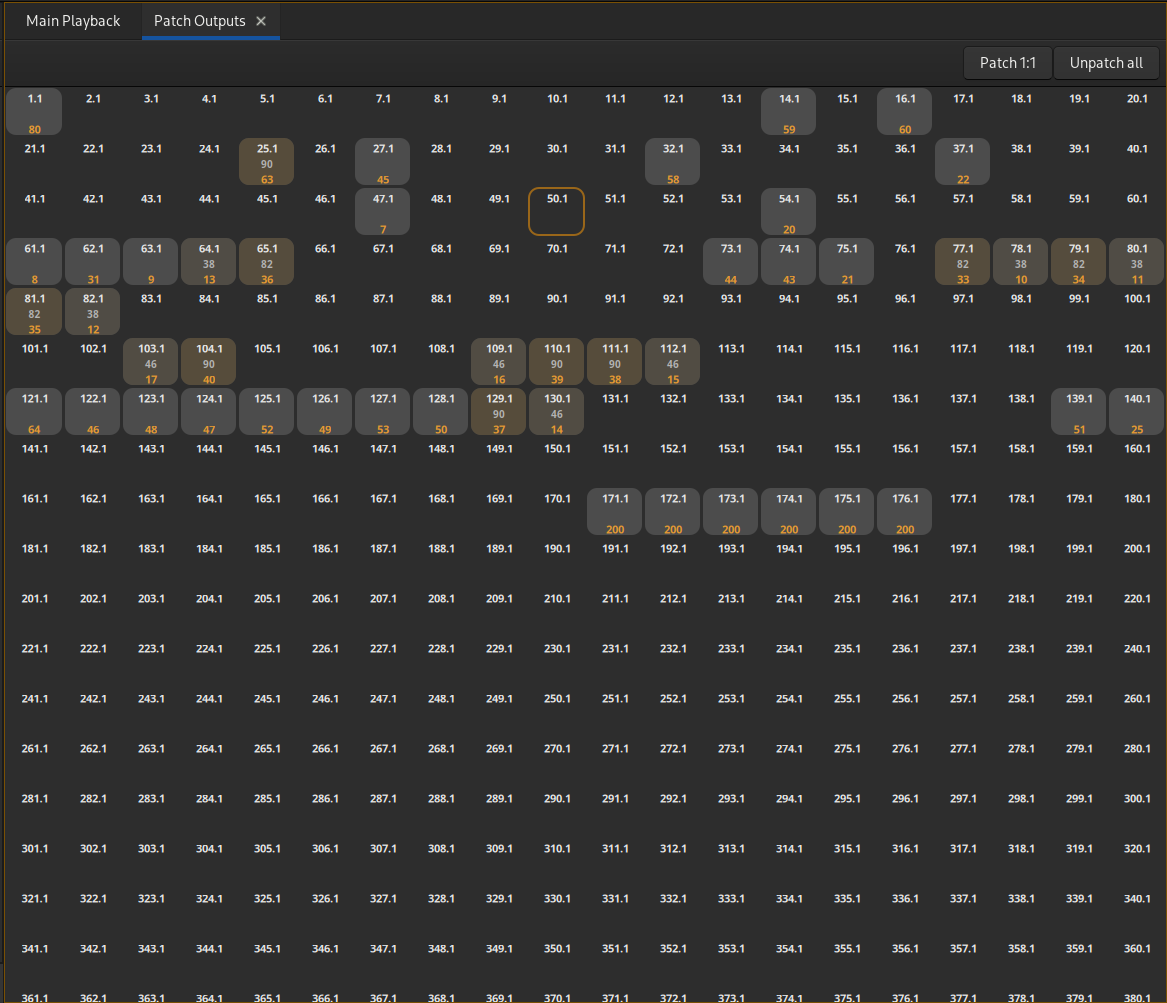
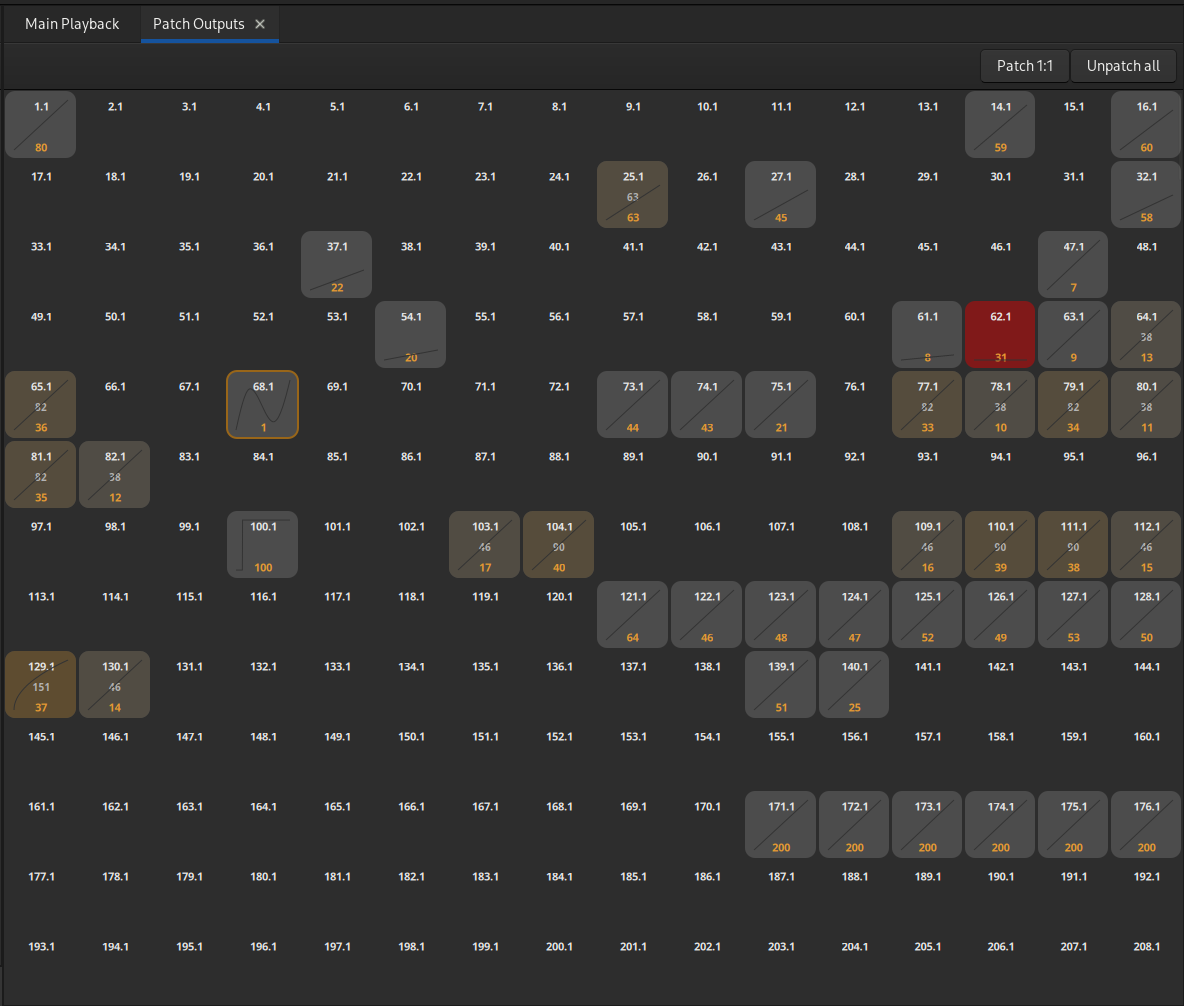
Curves doc

diff --git a/doc.fr/curves.md b/doc.fr/curves.md
@@ -1,0 +1,54 @@
+# Courbes
+Une courbe peut changer la réponse des outputs.
+Par défaut les outputs ont une courbe linéaire. C'est à dire que la valeur de sortie est égale à la valeur d'entrée.
+
+![Curves Edition](pictures/curves.png)
+
+## Édition de courbes
+
+Ouvrir l'onglet : 'Courbes' dans le menu principal.
+
+En haut, le détail de la courbe sélectionnée.
+En bas, les différentes courbes existantes et des boutons pour en créer de nouvelles.
+
+> Trois courbes existent par défaut : Linéaire, Racine carrée et Full à 1%. Ces courbes ne sont pas modifiables.
+
+### Afficher une courbe
+Cliquer sur la courbe dans la partie basse de l'onglet.  
+Le dessin de cette courbe apparaît dans la partie haute de l'onglet, ainsi qu'un tableau avec le détail des valeurs DMX.
+
+### Créer et modifier une courbe Limite
+Une courbe Limite sert à limiter la valeur de sortie.  
+Par exemple, une courbe Limite à 50% n'enverra que la moitié de l'intensité lumineuse quand le circuit patché serra à Full.
+
+![Limit Curve](pictures/curves_limit.png)
+
+- Cliquer sur le bouton "Nouvelle courbe Limite".
+- À l'aide du fader à droite de la courbe, spécifier la valeur maximale désirée.
+> Ce sont les valeurs DMX qui sont utilisées, entre 0 et 255.
+
+### Créer et modifier une courbe Segments
+Une courbe Segments est définie par des points et les lignes droites qui les relient.  
+Les points apparaissent sur le dessin de la courbe et dans le tableau de valeurs.
+
+![Limit Curve](pictures/curves_segments.png)
+
+- Cliquer sur le bouton "Nouvelle courbe Segments".
+- Pour créer un nouveau point, cliquer en maintenant [Shift] sur le dessin de la courbe.
+- Pour déplacer un point, le cliquer avec la souris et le déplacer ou avec les flèches du clavier
+- Il est également possible de sélectionner un point avec [PageUp] et [PageDown] du clavier
+
+### Créer et modifier une courbe Interpolation
+Une courbe Segments est définie par des points et les courbes qui les relient.  
+Les points apparaissent sur le dessin de la courbe et dans le tableau de valeurs.
+
+![Limit Curve](pictures/curves_interpolate.png)
+
+- Cliquer sur le bouton "Nouvelle courbe Interpolation".
+- Pour créer un nouveau point, cliquer en maintenant [Shift] sur le dessin de la courbe.
+- Pour déplacer un point, le cliquer avec la souris et le déplacer ou avec les flèches du clavier
+- Il est également possible de sélectionner un point avec [PageUp] et [PageDown] du clavier
+
+### Supprimer une courbe
+- Sélectionner la courbe
+- Cliquer sur "Supprimer la courbe"

diff --git a/doc.fr/patch.md b/doc.fr/patch.md
@@ -36,8 +36,17 @@ Quitter le mode test output : presser à nouveau [T] ou fermer l'onglet.
 - Patch un output : sélectionner output, entrer un numéro de circuit, presser [C]
 - Patch multiple : sélectionner une série d'output, entrer un numéro de circuit, choisir de patcher tout sur le même circuit ou sur des circuits consécutifs.
 
-### Limiter des outputs :  
-On peut limiter la valeur maximale des outputs en appliquant un pourcentage (100% : pas de limite, 0% : coupé)
+### Changer la courbe des outputs :  
+On peut choisir la [courbe](curves.md) de réponse des outputs. Par défaut la courbe est linéaire. 
+
+![Select Curve](pictures/patch_set_curve.png)
+
 - Sélectionner un ou des output(s) patché(s)
-- [:] pour baisser
-- [!] pour augmenter
+- Cliquer sur un des outputs sélectionnés
+- Choisir une courbe en les faisant défiler
+- Cliquer sur la courbe choisie
+> Vous pouvez appuyer sur la touche [Esc] pour fermer ce popup sans faire de choix.
+
+![Red Output](pictures/patch_red_output.png)
+
+Un output avec une courbe à 0% apparaîtra en rouge pour signifier qu'il n'enverra jamais de valeur DMX.

diff --git a/doc.fr/index.md b/doc.fr/index.md
@@ -5,6 +5,7 @@
 - [Bases du système](general.md)
 - [Fichiers](files.md)
 - [Patch](patch.md)
+- [Courbes](curves.md)
 - [Groupes](groups.md)
 - [Mémoires](cues.md)
 - [Séquences](sequences.md)
